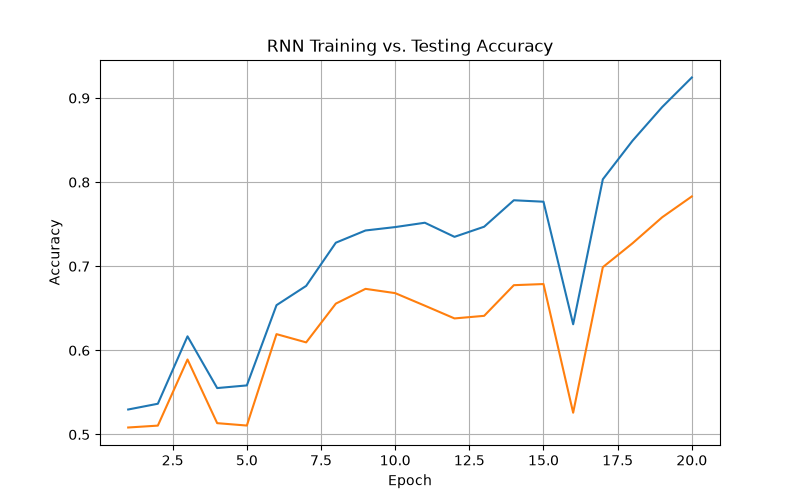
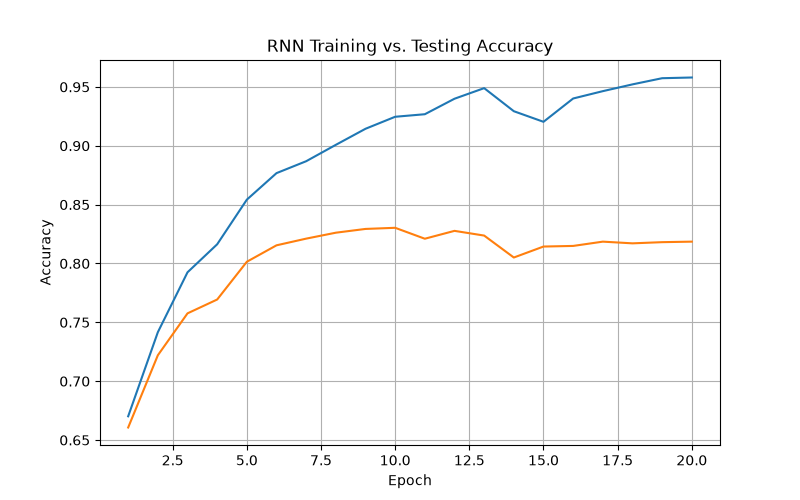
Final original RNN code for Text Classification

diff --git a/local_code/stage_4_code/Method_RNN.py b/local_code/stage_4_code/Method_RNN.py
@@ -21,22 +21,22 @@ class Method_RNN(method, nn.Module):
         method.__init__(self, mName, mDescription)
         nn.Module.__init__(self)
 
-        self.max_epoch = 30
+        self.max_epoch = 20
         self.learning_rate = 0.001
-        self.batch_size = 128
+        self.batch_size = 256
 
         self.loss_history = []
         self.accuracy_history = []
         self.test_loss_history = []
         self.test_accuracy_history = []
 
-        self.vocab_size = 20000 # Max number of unique words (tokens)
+        self.vocab_size = 10000 # Max number of unique words (tokens)
         self.embedding_dim = 100 # Number of values used to represent each word
         self.hidden_size = 256 # Number of features maintained in the RNN hidden state
 
         # the layers
         self.embedding = nn.Embedding(self.vocab_size, self.embedding_dim, padding_idx=0)
-        self.rnn = nn.LSTM(self.embedding_dim, self.hidden_size, batch_first=True)
+        self.rnn = nn.RNN(self.embedding_dim, self.hidden_size, batch_first=True, nonlinearity='tanh')
         self.dropout = nn.Dropout(0.5) # randomly turns off values to reduce overfitting
         self.fc = nn.Linear(self.hidden_size, 2) # 2 classes: negative / positive
 
@@ -45,9 +45,11 @@ class Method_RNN(method, nn.Module):
     def forward(self, x):
         emb = self.embedding(x) # word IDs -> vectors
 
-        output, (hidden, cell) = self.rnn(emb) # RNN reads the whole review
-        last = hidden[-1] # memory after the LAST word
-        return self.fc(self.dropout(last)) # -> 2 scores
+        output, hidden = self.rnn(emb) # RNN reads the whole review
+        output = self.dropout(output)
+        summed = torch.sum(output, dim=1)
+        # last = hidden[-1] # memory after the LAST word
+        return self.fc(self.dropout(summed)) # -> 2 scores
 
     def build_tokenizer(self, x_train):
         self.tokenizer = Tokenizer(num_words=self.vocab_size, oov_token="<UNK>")
@@ -56,7 +58,7 @@ class Method_RNN(method, nn.Module):
     def make_loader(self, x, y, shuffle):
         x = self.tokenizer.texts_to_sequences(x)
 
-        x = [review[:500] for review in x]
+        x = [review[:150] for review in x]
 
         x = [torch.tensor(review, dtype=torch.long) for review in x]
         x = pad_sequence(x, batch_first=True, padding_value=0)

diff --git a/local_code/stage_4_code/RNN_Dataset_Loader.py b/local_code/stage_4_code/RNN_Dataset_Loader.py
@@ -8,6 +8,7 @@ Concrete IO class for a specific dataset
 import numpy as np
 from local_code.base_class.dataset import dataset
 import os
+import re
 
 
 class RNN_Dataset_Loader(dataset):
@@ -18,6 +19,15 @@ class RNN_Dataset_Loader(dataset):
 
     def __init__(self, dName=None, dDescription=None):
         super().__init__(dName, dDescription)
+
+    def clean_text(self, text):
+        text = text.lower()
+
+        text = re.sub(r'<.*?.>', ' ', text)
+
+        text = re.sub(r'\s+', ' ', text).strip()
+
+        return text
 
     def load(self):
         print("Loading RNN data...")
@@ -40,6 +50,8 @@ class RNN_Dataset_Loader(dataset):
                     review = f.read()
                     f.close()
 
+                    review = self.clean_text(review)
+
                     x_train.append(review)
                     y_train.append(1 if sentiment == 'pos' else 0)
 
@@ -57,6 +69,8 @@ class RNN_Dataset_Loader(dataset):
 
                     review = f.read()
                     f.close()
+
+                    review = self.clean_text(review)
 
                     x_test.append(review)
                     y_test.append(1 if sentiment == 'pos' else 0)

diff --git a/script/stage_4_script/script_RNN.py b/script/stage_4_script/script_RNN.py
@@ -87,7 +87,7 @@ def main():
 
     # Save predictions
     np.savetxt(
-        result_dir / "text_classification_predictions.csv",
+        result_dir / "RNN_text_classification_predictions.csv",
         np.column_stack((y_true, y_pred)),
         delimiter=",",
         fmt="%d",
